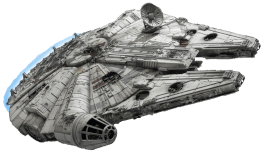
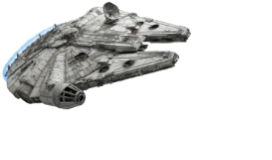
Mudancas tamanho e blasters

diff --git a/solo.py b/solo.py
@@ -22,12 +22,12 @@ black = (0, 0, 0)
 white = (255, 255, 255)
 red = (170, 0, 0)
 falcon = pygame.image.load('stars/ship.png')
-falcon_width = 270
-falcon_height = 100
+falcon_width = 180
+falcon_height = 70
 
 blaster = pygame.image.load('stars/laser.png')
-blast_width = 200
-blast_height = 40
+blast_width = 100
+blast_height = 15
 
 back = pygame.image.load('stars/block.png')
 
@@ -112,7 +112,10 @@ def game_loop():
         showFalcon(falcon_X, falcon_Y)
 
         showBlast(blast_X, blast_Y)
-        blast_X -= blast_speed       
+        blast_X -= blast_speed    
+
+        showBlast(blast_X, blast_Y)
+        blast_X -= blast_speed   
 
         if blast_X < 0:
             pygame.mixer.Sound.play(blast_sound)            
